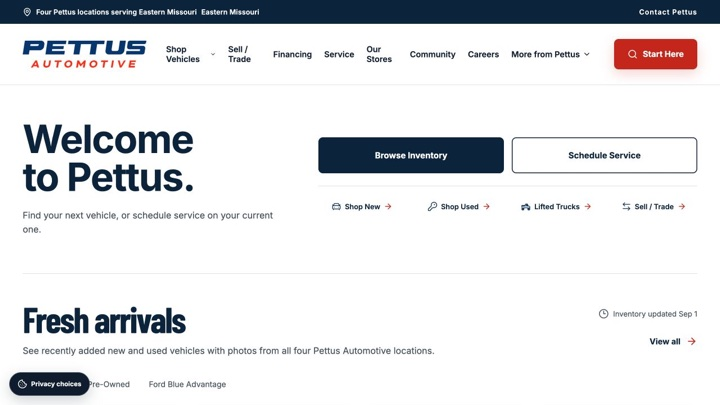
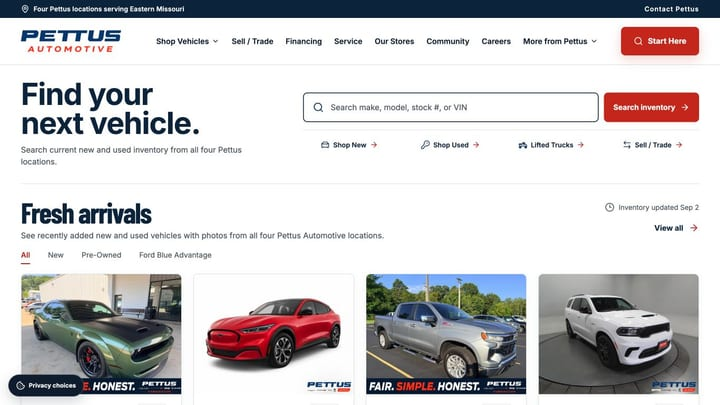
Refresh Pettus live site preview

diff --git a/work.html b/work.html
@@ -45,7 +45,7 @@
             <article class="portfolio-project portfolio-project-featured">
               <figure class="portfolio-project-media">
                 <a href="https://pettusauto.com/" target="_blank" rel="noopener noreferrer" aria-label="Visit the live Pettus Automotive website">
-                  <div class="browser-frame"><div class="browser-bar"><span></span><span></span><span></span></div><picture><source type="image/jpeg" srcset="assets/dealer-websites/pettus-automotive-live-720.jpg 720w, assets/dealer-websites/pettus-automotive-live.jpg 1200w" sizes="(max-width: 820px) 94vw, 58vw" /><img src="assets/dealer-websites/pettus-automotive-live.jpg" width="1200" height="675" alt="Pettus Automotive live homepage with Welcome to Pettus headline and inventory and service actions" fetchpriority="high" decoding="async" /></picture></div>
+                  <div class="browser-frame"><div class="browser-bar"><span></span><span></span><span></span></div><picture><source type="image/jpeg" srcset="assets/dealer-websites/pettus-automotive-live-720.jpg 720w, assets/dealer-websites/pettus-automotive-live.jpg 1200w" sizes="(max-width: 820px) 94vw, 58vw" /><img src="assets/dealer-websites/pettus-automotive-live.jpg" width="1200" height="675" alt="Pettus Automotive live homepage with direct inventory search and fresh vehicle arrivals" fetchpriority="high" decoding="async" /></picture></div>
                 </a>
                 <figcaption><span class="portfolio-live"><i></i> Live website</span><span>pettusauto.com</span></figcaption>
               </figure>

diff --git a/tests/test_site_ops.py b/tests/test_site_ops.py
@@ -241,7 +241,7 @@ class SiteOpsTests(unittest.TestCase):
         ):
             self.assertIn(dimensions, work)
 
-        self.assertIn("Welcome to Pettus headline", work)
+        self.assertIn("direct inventory search and fresh vehicle arrivals", work)
         self.assertIn('getmore-home.png" width="1440" height="898"', work)
         self.assertIn("What If Your Car Is Worth More Here headline", work)
         self.assertIn(
